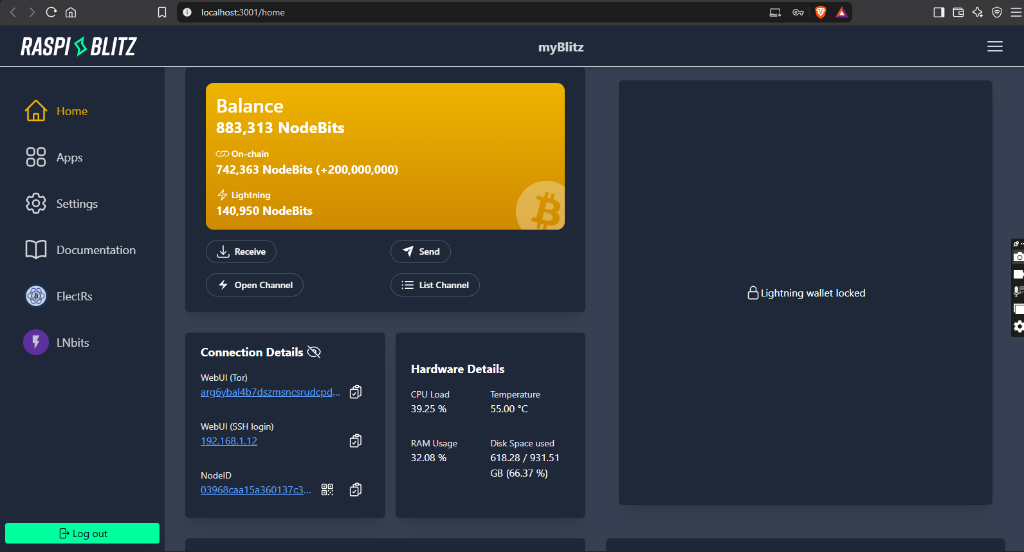
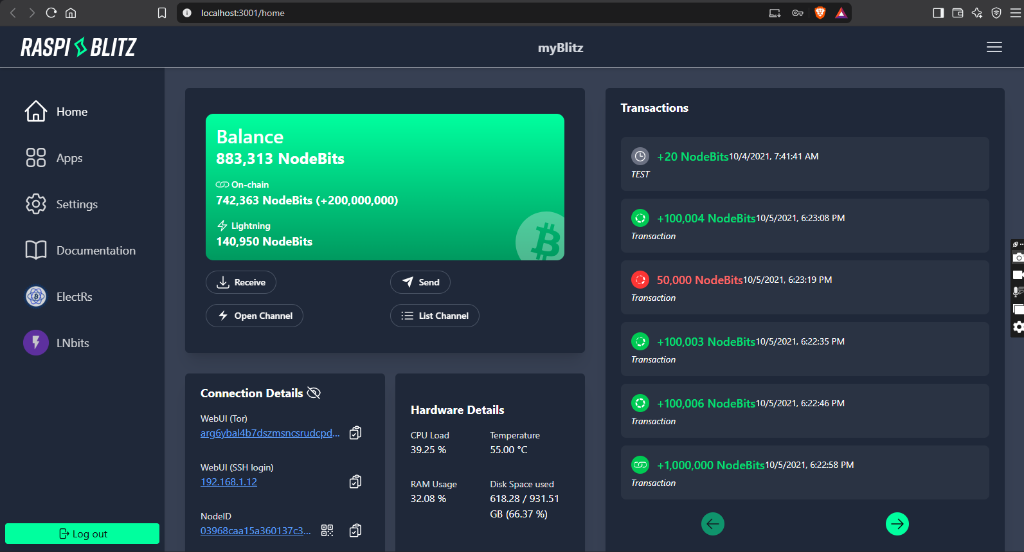
docs: update README with final polished UI screenshots

diff --git a/README.md b/README.md
@@ -257,3 +257,6 @@ before reloading nginx. See [nginx WebSocket proxying](https://nginx.org/en/docs
 
 ### Rebranded Dashboard
 ![Dashboard](public/dashboard-screenshot.png)
+
+### Unlock Lightning Wallet
+![Unlock Modal](public/unlock-screenshot.png)
